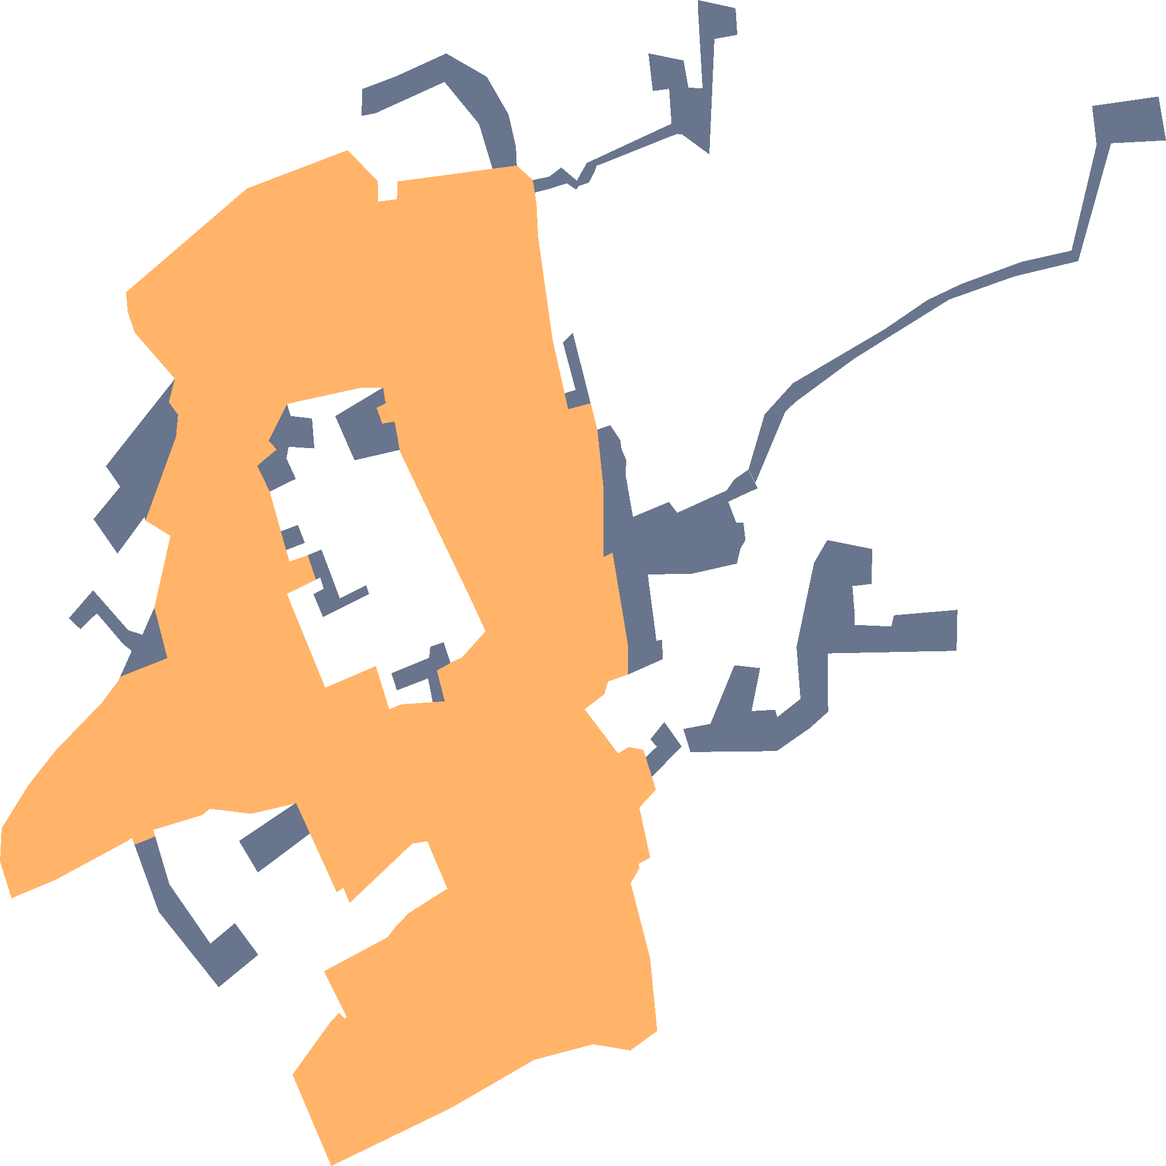
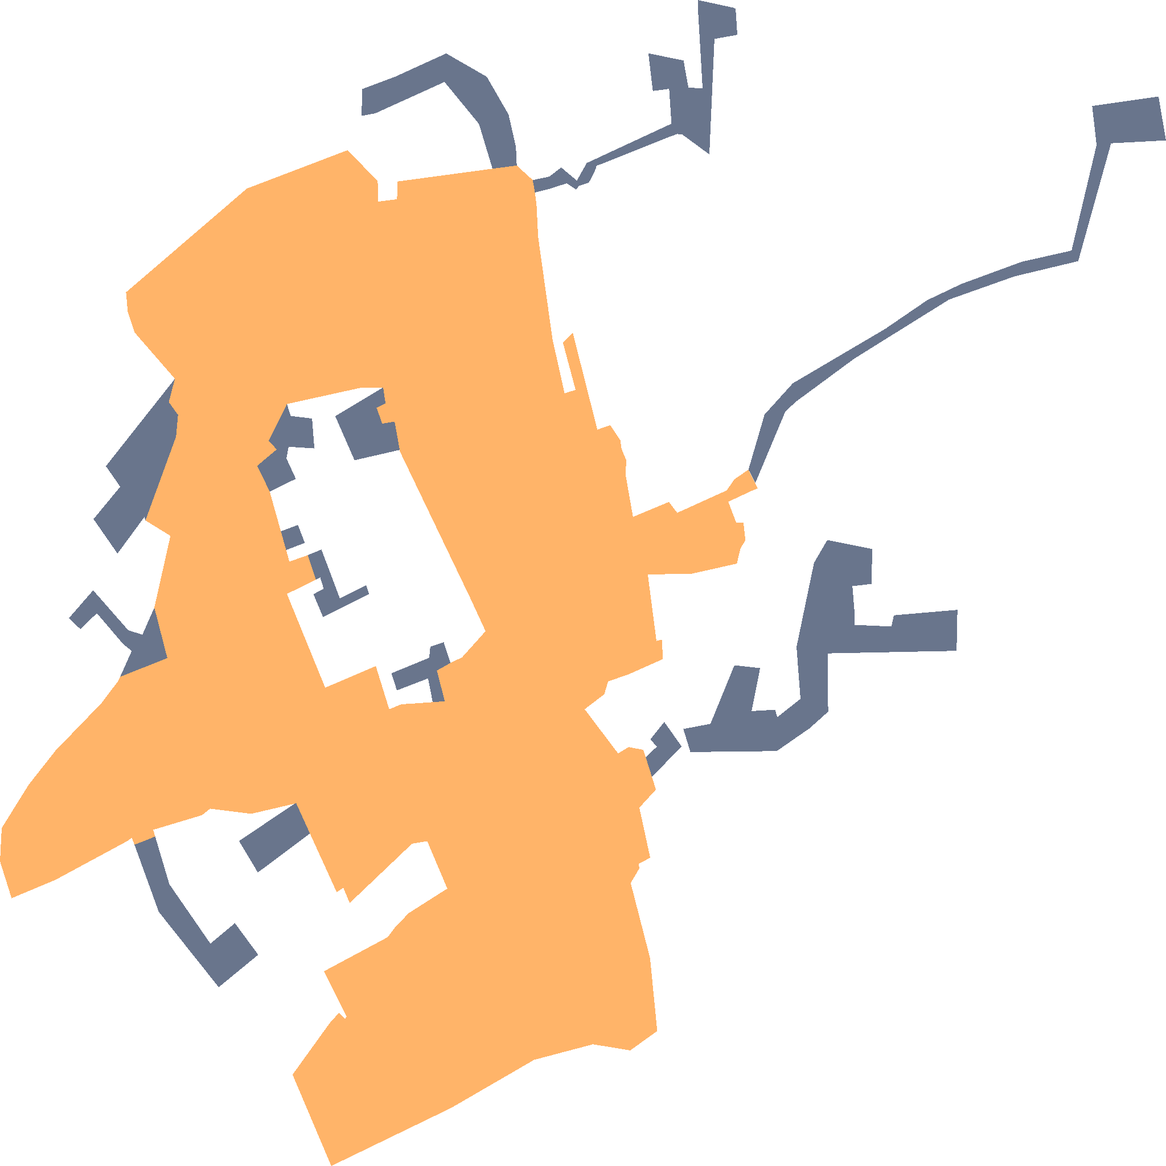
Karte sp_274

Changed region(s): [[0.5, 0.3438, 0.6562, 0.5938], [0.4688, 0.2812, 0.5, 0.3438]]

diff --git a/sp_274.html b/sp_274.html
@@ -141,7 +141,7 @@
         L.control.zoom({
             position: 'topleft'
         }).addTo(map);
-        const geoJsonData = {"type": "FeatureCollection", "features": [{"type": "Feature", "geometry": {"type": "MultiPolygon", "coordinates": [[[[9.317827734, 49.126337592], [9.317357299, 49.127087081], [9.317508766, 49.127119823], [9.317640221, 49.127149886], [9.317758483, 49.127178162], [9.318033216, 49.126645069], [9.318826487, 49.125983083], [9.319299537, 49.126211683], [9.319750755, 49.125859258], [9.318986595, 49.125497304], [9.317827734, 49.126337592]]]]}, "properties": {"dgn_phase": 2}}, {"type": "Feature", "geometry": {"type": "MultiPolygon", "coordinates": [[[[9.329229399, 49.131269641], [9.329540521, 49.131883936], [9.330086349, 49.132232153], [9.331873936, 49.132839293], [9.332684491, 49.133158932], [9.333342213, 49.133339285], [9.334513013, 49.133587494], [9.3354764, 49.133712491], [9.335959458, 49.134889231], [9.335874854, 49.13532492], [9.337157551, 49.135430271], [9.337302194, 49.134941014], [9.33624056, 49.134908873], [9.335604669, 49.133594637], [9.334373828, 49.133424998], [9.333107506, 49.133166075], [9.331278984, 49.132508938], [9.330132744, 49.132021437], [9.329938975, 49.131912507], [9.329363127, 49.131121423], [9.329229399, 49.131269641]]]]}, "properties": {"dgn_phase": 2}}, {"type": "Feature", "geometry": {"type": "MultiPolygon", "coordinates": [[[[9.327969901, 49.128377083], [9.328493896, 49.12843423], [9.328957849, 49.129087849], [9.329454554, 49.129055704], [9.329290804, 49.128577099], [9.329743841, 49.128591385], [9.329787508, 49.128509236], [9.330235087, 49.128712823], [9.330158671, 49.129291433], [9.330497085, 49.130230768], [9.330753624, 49.130484349], [9.331621491, 49.130384346], [9.331610574, 49.129995043], [9.33123941, 49.129970042], [9.331283076, 49.12965574], [9.331283076, 49.129537876], [9.331992653, 49.129520018], [9.332041777, 49.129645026], [9.33326989, 49.129705742], [9.333253516, 49.129248573], [9.330759082, 49.12922], [9.330769998, 49.128569955], [9.330409752, 49.128384226], [9.329776592, 49.128130634], [9.328106358, 49.128119919], [9.327969901, 49.128377083]]]]}, "properties": {"dgn_phase": 2}}, {"type": "Feature", "geometry": {"type": "MultiPolygon", "coordinates": [[[[9.324280104, 49.134625404], [9.324749515, 49.134661116], [9.325058591, 49.134498624], [9.325100551, 49.134360683], [9.325131936, 49.134222296], [9.325162981, 49.133863826], [9.325439988, 49.132725009], [9.325674366, 49.132120151], [9.32574315, 49.131942637], [9.326178188, 49.132009941], [9.326288673, 49.131758789], [9.326307855, 49.131715184], [9.326428539, 49.131056059], [9.326426021, 49.130672527], [9.326428629, 49.130295651], [9.326601751, 49.130345187], [9.326790599, 49.129694304], [9.326899884, 49.129310454], [9.326901812, 49.128984463], [9.326516634, 49.128907926], [9.326441923, 49.128764613], [9.326062233, 49.128597189], [9.326709038, 49.128104292], [9.326912358, 49.128175293], [9.327197475, 49.128144003], [9.327243053, 49.128061047], [9.327361938, 49.12784466], [9.327440621, 49.12770145], [9.327119774, 49.127499773], [9.327329918, 49.126940786], [9.327107492, 49.126874707], [9.327119888, 49.126823065], [9.3269525, 49.126658761], [9.327327303, 49.125820562], [9.327465578, 49.125008543], [9.326943745, 49.124792737], [9.326223251, 49.124860605], [9.325085201, 49.124687364], [9.323483195, 49.124151564], [9.321163426, 49.123503239], [9.320414277, 49.12452216], [9.321132723, 49.125096801], [9.321312846, 49.125211995], [9.321431565, 49.125142343], [9.321458173, 49.125171811], [9.321020146, 49.125674114], [9.322252353, 49.126054521], [9.322400264, 49.126167051], [9.32265926, 49.126322964], [9.32340678, 49.126596997], [9.323017876, 49.127126074], [9.322725176, 49.127097946], [9.321519579, 49.126436264], [9.321395517, 49.126606969], [9.321267793, 49.12655682], [9.320750884, 49.12721155], [9.320714255, 49.127257945], [9.320554071, 49.127460839], [9.320485009, 49.127548315], [9.32045503, 49.12754428], [9.319612479, 49.127430867], [9.318819209, 49.127488016], [9.318666377, 49.127416579], [9.317785774, 49.127264183], [9.317720275, 49.127254658], [9.317758483, 49.127178162], [9.317640221, 49.127149886], [9.317508766, 49.127119823], [9.317357299, 49.127087081], [9.317304424, 49.12716447], [9.317223571, 49.127128455], [9.315830686, 49.126694777], [9.314981923, 49.126489395], [9.314758134, 49.126901942], [9.314790829, 49.127272417], [9.315317534, 49.127758998], [9.315831594, 49.128135357], [9.316716683, 49.128663601], [9.317042632, 49.128911551], [9.317080734, 49.128958782], [9.317993187, 49.129167925], [9.317742295, 49.129731115], [9.31805351, 49.130530757], [9.317782308, 49.130627423], [9.317570324, 49.130702981], [9.318162641, 49.131638603], [9.318200041, 49.131880488], [9.318021685, 49.13202214], [9.318139539, 49.132282599], [9.317359005, 49.132800454], [9.3173172, 49.132873396], [9.317228006, 49.133029023], [9.317195257, 49.133246876], [9.319531401, 49.134403985], [9.321480007, 49.134832537], [9.322060631, 49.134486124], [9.322070865, 49.134258455], [9.322435205, 49.13428524], [9.322440663, 49.134482553], [9.324280104, 49.134625404]], [[9.320305331, 49.132001208], [9.319952009, 49.131591967], [9.320108938, 49.131494813], [9.319731669, 49.131312426], [9.319972502, 49.131024938], [9.320188839, 49.130581465], [9.320290459, 49.13037315], [9.320353724, 49.130243461], [9.320709949, 49.130315846], [9.32086573, 49.130041933], [9.320305664, 49.129883401], [9.321045997, 49.12883745], [9.322024064, 49.129078851], [9.322283738, 49.128597189], [9.322521173, 49.128653444], [9.322697791, 49.128658585], [9.323124161, 49.128676263], [9.323338308, 49.128685142], [9.323359374, 49.128684288], [9.323204591, 49.1290282], [9.323467483, 49.12911386], [9.323691974, 49.129175801], [9.324146376, 49.129467783], [9.323843442, 49.129845482], [9.322492517, 49.131468752], [9.322486049, 49.131489554], [9.322387859, 49.131805309], [9.322148838, 49.131782631], [9.322038172, 49.1319597], [9.322211296, 49.132009245], [9.322166699, 49.13218613], [9.321744842, 49.132183972], [9.320305331, 49.132001208]]]]}, "properties": {"dgn_phase": 1}}, {"type": "Feature", "geometry": {"type": "MultiPolygon", "coordinates": [[[[9.324280104, 49.134625404], [9.324018107, 49.135125379], [9.323352196, 49.135593208], [9.322014918, 49.135243229], [9.321747463, 49.135214659], [9.321763837, 49.135514641], [9.322407914, 49.135653917], [9.323384946, 49.135911043], [9.324170939, 49.135650346], [9.324591226, 49.135228944], [9.324733141, 49.13486825], [9.324749515, 49.134661116], [9.324280104, 49.134625404]]]]}, "properties": {"dgn_phase": 2}}, {"type": "Feature", "geometry": {"type": "MultiPolygon", "coordinates": [[[[9.325886876, 49.132159015], [9.325641293, 49.132686657], [9.325832985, 49.132794651], [9.326178188, 49.132009941], [9.32574315, 49.131942637], [9.325674366, 49.132120151], [9.325886876, 49.132159015]]]]}, "properties": {"dgn_phase": 2}}, {"type": "Feature", "geometry": {"type": "MultiPolygon", "coordinates": [[[[9.320517722, 49.130652393], [9.320654899, 49.13044857], [9.320632024, 49.130447799], [9.320290459, 49.13037315], [9.320188839, 49.130581465], [9.320517722, 49.130652393]]]]}, "properties": {"dgn_phase": 2}}, {"type": "Feature", "geometry": {"type": "MultiPolygon", "coordinates": [[[[9.317236194, 49.129478944], [9.317137945, 49.129325363], [9.316630324, 49.12966824], [9.316313744, 49.129489659], [9.316089955, 49.129612881], [9.316559367, 49.129923611], [9.317236194, 49.129478944]]]]}, "properties": {"dgn_phase": 2}}, {"type": "Feature", "geometry": {"type": "MultiPolygon", "coordinates": [[[[9.32097336, 49.130378481], [9.32132814, 49.129833869], [9.321837313, 49.129980863], [9.321895121, 49.129882317], [9.321004069, 49.129624658], [9.320817677, 49.129880312], [9.321016279, 49.12994146], [9.320948489, 49.130068383], [9.32086573, 49.130041933], [9.320709949, 49.130315846], [9.32097336, 49.130378481]]]]}, "properties": {"dgn_phase": 2}}, {"type": "Feature", "geometry": {"type": "MultiPolygon", "coordinates": [[[[9.323338308, 49.128685142], [9.323124161, 49.128676263], [9.323035045, 49.128941129], [9.322431948, 49.128807742], [9.322326458, 49.128998138], [9.323056869, 49.12917119], [9.323077998, 49.129294532], [9.323337508, 49.129343831], [9.323467483, 49.12911386], [9.323204591, 49.1290282], [9.323359374, 49.128684288], [9.323338308, 49.128685142]]]]}, "properties": {"dgn_phase": 2}}, {"type": "Feature", "geometry": {"type": "MultiPolygon", "coordinates": [[[[9.319743159, 49.126776622], [9.319379519, 49.127127817], [9.32045503, 49.12754428], [9.320485009, 49.127548315], [9.320554071, 49.127460839], [9.320714255, 49.127257945], [9.320750884, 49.12721155], [9.319743159, 49.126776622]]]]}, "properties": {"dgn_phase": 2}}, {"type": "Feature", "geometry": {"type": "MultiPolygon", "coordinates": [[[[9.317510866, 49.129428047], [9.317742295, 49.129731115], [9.317993187, 49.129167925], [9.317080734, 49.128958782], [9.317304849, 49.129247121], [9.317137945, 49.129325363], [9.317236194, 49.129478944], [9.317510866, 49.129428047]]]]}, "properties": {"dgn_phase": 2}}, {"type": "Feature", "geometry": {"type": "MultiPolygon", "coordinates": [[[[9.320380707, 49.131867593], [9.320792202, 49.13183977], [9.320835792, 49.131506136], [9.320337835, 49.131524194], [9.320296339, 49.13139424], [9.320377011, 49.131293962], [9.320477838, 49.131166947], [9.319972502, 49.131024938], [9.319731669, 49.131312426], [9.320108938, 49.131494813], [9.319952009, 49.131591967], [9.320305331, 49.132001208], [9.320380707, 49.131867593]]]]}, "properties": {"dgn_phase": 2}}, {"type": "Feature", "geometry": {"type": "MultiPolygon", "coordinates": [[[[9.327942201, 49.1350103], [9.327896016, 49.135011148], [9.3278496, 49.135012], [9.3276928, 49.1349799], [9.327194764, 49.134864739], [9.3263833, 49.1346771], [9.3262914, 49.1346599], [9.326277493, 49.134625404], [9.326172421, 49.134496838], [9.326133532, 49.134468268], [9.32595136, 49.134434341], [9.325898501, 49.1343928], [9.325715972, 49.134462465], [9.325366643, 49.134398181], [9.325100551, 49.134360683], [9.325058591, 49.134498624], [9.325378924, 49.134537462], [9.325609536, 49.134639242], [9.3259119, 49.1344922], [9.326101122, 49.134688347], [9.327740653, 49.13512761], [9.327695622, 49.13551598], [9.327380407, 49.135491875], [9.327294438, 49.135912382], [9.327973994, 49.13583203], [9.32806815, 49.135529372], [9.328342429, 49.135521337], [9.328248273, 49.136453411], [9.328248273, 49.136506979], [9.328936016, 49.136421271], [9.328981048, 49.136410558], [9.329013796, 49.136118616], [9.328571677, 49.136073084], [9.328473427, 49.134784772], [9.327942201, 49.1350103]]]]}, "properties": {"dgn_phase": 2}}, {"type": "Feature", "geometry": {"type": "MultiPolygon", "coordinates": [[[[9.317082451, 49.131078929], [9.316805245, 49.131307882], [9.318139539, 49.132282599], [9.318021685, 49.13202214], [9.318200041, 49.131880488], [9.318162641, 49.131638603], [9.317570324, 49.130702981], [9.317549982, 49.130741233], [9.317030093, 49.130333465], [9.316566472, 49.130717886], [9.317082451, 49.131078929]]]]}, "properties": {"dgn_phase": 2}}, {"type": "Feature", "geometry": {"type": "MultiPolygon", "coordinates": [[[[9.329225738, 49.131268179], [9.32940682, 49.131060942], [9.329281252, 49.131030349], [9.328839132, 49.13091115], [9.328994692, 49.130675428], [9.329131832, 49.130679446], [9.329170722, 49.130481224], [9.329076567, 49.130394168], [9.329004927, 49.130221392], [9.328135014, 49.130108887], [9.327283181, 49.130100108], [9.327450569, 49.129359592], [9.32751516, 49.129367945], [9.327561798, 49.129373975], [9.327569705, 49.129155141], [9.326901812, 49.128984463], [9.326899884, 49.129310454], [9.326790599, 49.129694304], [9.326601751, 49.130345187], [9.326428629, 49.130295651], [9.326426021, 49.130672527], [9.326428539, 49.131056059], [9.326307855, 49.131715184], [9.326547527, 49.131764031], [9.326558602, 49.131765177], [9.326751339, 49.131596879], [9.326774652, 49.131504318], [9.326869261, 49.131368602], [9.326851068, 49.131220979], [9.326996622, 49.130742395], [9.327691642, 49.130909066], [9.327851752, 49.130787634], [9.328808771, 49.131037642], [9.328956485, 49.13116071], [9.329225738, 49.131268179]]]]}, "properties": {"dgn_phase": 2}}, {"type": "Feature", "geometry": {"type": "MultiPolygon", "coordinates": [[[[9.321612541, 49.131373905], [9.32123962, 49.131865206], [9.322166699, 49.13218613], [9.322211296, 49.132009245], [9.322038172, 49.1319597], [9.322148838, 49.131782631], [9.322387859, 49.131805309], [9.322486049, 49.131489554], [9.321612541, 49.131373905]]]]}, "properties": {"dgn_phase": 2}}, {"type": "Feature", "geometry": {"type": "MultiPolygon", "coordinates": [[[[9.327456553, 49.128179103], [9.327335135, 49.128262825], [9.327600671, 49.128455509], [9.32793936, 49.128181067], [9.327361938, 49.12784466], [9.327243053, 49.128061047], [9.327456553, 49.128179103]]]]}, "properties": {"dgn_phase": 2}}]};
+        const geoJsonData = {"type": "FeatureCollection", "features": [{"type": "Feature", "geometry": {"type": "MultiPolygon", "coordinates": [[[[9.317827734, 49.126337592], [9.317357299, 49.127087081], [9.317508766, 49.127119823], [9.317640221, 49.127149886], [9.317758483, 49.127178162], [9.318033216, 49.126645069], [9.318826487, 49.125983083], [9.319299537, 49.126211683], [9.319750755, 49.125859258], [9.318986595, 49.125497304], [9.317827734, 49.126337592]]]]}, "properties": {"dgn_phase": 2}}, {"type": "Feature", "geometry": {"type": "MultiPolygon", "coordinates": [[[[9.329229399, 49.131269641], [9.329540521, 49.131883936], [9.330086349, 49.132232153], [9.331873936, 49.132839293], [9.332684491, 49.133158932], [9.333342213, 49.133339285], [9.334513013, 49.133587494], [9.3354764, 49.133712491], [9.335959458, 49.134889231], [9.335874854, 49.13532492], [9.337157551, 49.135430271], [9.337302194, 49.134941014], [9.33624056, 49.134908873], [9.335604669, 49.133594637], [9.334373828, 49.133424998], [9.333107506, 49.133166075], [9.331278984, 49.132508938], [9.330132744, 49.132021437], [9.329938975, 49.131912507], [9.329363127, 49.131121423], [9.329229399, 49.131269641]]]]}, "properties": {"dgn_phase": 2}}, {"type": "Feature", "geometry": {"type": "MultiPolygon", "coordinates": [[[[9.327969901, 49.128377083], [9.328493896, 49.12843423], [9.328957849, 49.129087849], [9.329454554, 49.129055704], [9.329290804, 49.128577099], [9.329743841, 49.128591385], [9.329787508, 49.128509236], [9.330235087, 49.128712823], [9.330158671, 49.129291433], [9.330497085, 49.130230768], [9.330753624, 49.130484349], [9.331621491, 49.130384346], [9.331610574, 49.129995043], [9.33123941, 49.129970042], [9.331283076, 49.12965574], [9.331283076, 49.129537876], [9.331992653, 49.129520018], [9.332041777, 49.129645026], [9.33326989, 49.129705742], [9.333253516, 49.129248573], [9.330759082, 49.12922], [9.330769998, 49.128569955], [9.330409752, 49.128384226], [9.329776592, 49.128130634], [9.328106358, 49.128119919], [9.327969901, 49.128377083]]]]}, "properties": {"dgn_phase": 2}}, {"type": "Feature", "geometry": {"type": "MultiPolygon", "coordinates": [[[[9.324280104, 49.134625404], [9.324749515, 49.134661116], [9.325058591, 49.134498624], [9.325100551, 49.134360683], [9.325131936, 49.134222296], [9.325162981, 49.133863826], [9.325439988, 49.132725009], [9.325674366, 49.132120151], [9.32574315, 49.131942637], [9.326178188, 49.132009941], [9.326288673, 49.131758789], [9.326307855, 49.131715184], [9.326428539, 49.131056059], [9.326426021, 49.130672527], [9.326428629, 49.130295651], [9.326601751, 49.130345187], [9.326790599, 49.129694304], [9.326899884, 49.129310454], [9.326901812, 49.128984463], [9.326516634, 49.128907926], [9.326441923, 49.128764613], [9.326062233, 49.128597189], [9.326709038, 49.128104292], [9.326912358, 49.128175293], [9.327197475, 49.128144003], [9.327243053, 49.128061047], [9.327361938, 49.12784466], [9.327440621, 49.12770145], [9.327119774, 49.127499773], [9.327329918, 49.126940786], [9.327107492, 49.126874707], [9.327119888, 49.126823065], [9.3269525, 49.126658761], [9.327327303, 49.125820562], [9.327465578, 49.125008543], [9.326943745, 49.124792737], [9.326223251, 49.124860605], [9.325085201, 49.124687364], [9.323483195, 49.124151564], [9.321163426, 49.123503239], [9.320414277, 49.12452216], [9.321132723, 49.125096801], [9.321312846, 49.125211995], [9.321431565, 49.125142343], [9.321458173, 49.125171811], [9.321020146, 49.125674114], [9.322252353, 49.126054521], [9.322400264, 49.126167051], [9.32265926, 49.126322964], [9.32340678, 49.126596997], [9.323017876, 49.127126074], [9.322725176, 49.127097946], [9.321519579, 49.126436264], [9.321395517, 49.126606969], [9.321267793, 49.12655682], [9.320750884, 49.12721155], [9.320714255, 49.127257945], [9.320554071, 49.127460839], [9.320485009, 49.127548315], [9.32045503, 49.12754428], [9.319612479, 49.127430867], [9.318819209, 49.127488016], [9.318666377, 49.127416579], [9.317785774, 49.127264183], [9.317720275, 49.127254658], [9.317758483, 49.127178162], [9.317640221, 49.127149886], [9.317508766, 49.127119823], [9.317357299, 49.127087081], [9.317304424, 49.12716447], [9.317223571, 49.127128455], [9.315830686, 49.126694777], [9.314981923, 49.126489395], [9.314758134, 49.126901942], [9.314790829, 49.127272417], [9.315317534, 49.127758998], [9.315831594, 49.128135357], [9.316716683, 49.128663601], [9.317042632, 49.128911551], [9.317080734, 49.128958782], [9.317993187, 49.129167925], [9.317742295, 49.129731115], [9.31805351, 49.130530757], [9.317782308, 49.130627423], [9.317570324, 49.130702981], [9.318162641, 49.131638603], [9.318200041, 49.131880488], [9.318021685, 49.13202214], [9.318139539, 49.132282599], [9.317359005, 49.132800454], [9.3173172, 49.132873396], [9.317228006, 49.133029023], [9.317195257, 49.133246876], [9.319531401, 49.134403985], [9.321480007, 49.134832537], [9.322060631, 49.134486124], [9.322070865, 49.134258455], [9.322435205, 49.13428524], [9.322440663, 49.134482553], [9.324280104, 49.134625404]], [[9.320305331, 49.132001208], [9.319952009, 49.131591967], [9.320108938, 49.131494813], [9.319731669, 49.131312426], [9.319972502, 49.131024938], [9.320188839, 49.130581465], [9.320290459, 49.13037315], [9.320353724, 49.130243461], [9.320709949, 49.130315846], [9.32086573, 49.130041933], [9.320305664, 49.129883401], [9.321045997, 49.12883745], [9.322024064, 49.129078851], [9.322283738, 49.128597189], [9.322521173, 49.128653444], [9.322697791, 49.128658585], [9.323124161, 49.128676263], [9.323338308, 49.128685142], [9.323359374, 49.128684288], [9.323204591, 49.1290282], [9.323467483, 49.12911386], [9.323691974, 49.129175801], [9.324146376, 49.129467783], [9.323843442, 49.129845482], [9.322492517, 49.131468752], [9.322486049, 49.131489554], [9.322387859, 49.131805309], [9.322148838, 49.131782631], [9.322038172, 49.1319597], [9.322211296, 49.132009245], [9.322166699, 49.13218613], [9.321744842, 49.132183972], [9.320305331, 49.132001208]]]]}, "properties": {"dgn_phase": 1}}, {"type": "Feature", "geometry": {"type": "MultiPolygon", "coordinates": [[[[9.324280104, 49.134625404], [9.324018107, 49.135125379], [9.323352196, 49.135593208], [9.322014918, 49.135243229], [9.321747463, 49.135214659], [9.321763837, 49.135514641], [9.322407914, 49.135653917], [9.323384946, 49.135911043], [9.324170939, 49.135650346], [9.324591226, 49.135228944], [9.324733141, 49.13486825], [9.324749515, 49.134661116], [9.324280104, 49.134625404]]]]}, "properties": {"dgn_phase": 2}}, {"type": "Feature", "geometry": {"type": "MultiPolygon", "coordinates": [[[[9.325886876, 49.132159015], [9.325641293, 49.132686657], [9.325832985, 49.132794651], [9.326178188, 49.132009941], [9.32574315, 49.131942637], [9.325674366, 49.132120151], [9.325886876, 49.132159015]]]]}, "properties": {"dgn_phase": 1}}, {"type": "Feature", "geometry": {"type": "MultiPolygon", "coordinates": [[[[9.320517722, 49.130652393], [9.320654899, 49.13044857], [9.320632024, 49.130447799], [9.320290459, 49.13037315], [9.320188839, 49.130581465], [9.320517722, 49.130652393]]]]}, "properties": {"dgn_phase": 2}}, {"type": "Feature", "geometry": {"type": "MultiPolygon", "coordinates": [[[[9.317236194, 49.129478944], [9.317137945, 49.129325363], [9.316630324, 49.12966824], [9.316313744, 49.129489659], [9.316089955, 49.129612881], [9.316559367, 49.129923611], [9.317236194, 49.129478944]]]]}, "properties": {"dgn_phase": 2}}, {"type": "Feature", "geometry": {"type": "MultiPolygon", "coordinates": [[[[9.32097336, 49.130378481], [9.32132814, 49.129833869], [9.321837313, 49.129980863], [9.321895121, 49.129882317], [9.321004069, 49.129624658], [9.320817677, 49.129880312], [9.321016279, 49.12994146], [9.320948489, 49.130068383], [9.32086573, 49.130041933], [9.320709949, 49.130315846], [9.32097336, 49.130378481]]]]}, "properties": {"dgn_phase": 2}}, {"type": "Feature", "geometry": {"type": "MultiPolygon", "coordinates": [[[[9.323338308, 49.128685142], [9.323124161, 49.128676263], [9.323035045, 49.128941129], [9.322431948, 49.128807742], [9.322326458, 49.128998138], [9.323056869, 49.12917119], [9.323077998, 49.129294532], [9.323337508, 49.129343831], [9.323467483, 49.12911386], [9.323204591, 49.1290282], [9.323359374, 49.128684288], [9.323338308, 49.128685142]]]]}, "properties": {"dgn_phase": 2}}, {"type": "Feature", "geometry": {"type": "MultiPolygon", "coordinates": [[[[9.319743159, 49.126776622], [9.319379519, 49.127127817], [9.32045503, 49.12754428], [9.320485009, 49.127548315], [9.320554071, 49.127460839], [9.320714255, 49.127257945], [9.320750884, 49.12721155], [9.319743159, 49.126776622]]]]}, "properties": {"dgn_phase": 2}}, {"type": "Feature", "geometry": {"type": "MultiPolygon", "coordinates": [[[[9.317510866, 49.129428047], [9.317742295, 49.129731115], [9.317993187, 49.129167925], [9.317080734, 49.128958782], [9.317304849, 49.129247121], [9.317137945, 49.129325363], [9.317236194, 49.129478944], [9.317510866, 49.129428047]]]]}, "properties": {"dgn_phase": 2}}, {"type": "Feature", "geometry": {"type": "MultiPolygon", "coordinates": [[[[9.320380707, 49.131867593], [9.320792202, 49.13183977], [9.320835792, 49.131506136], [9.320337835, 49.131524194], [9.320296339, 49.13139424], [9.320377011, 49.131293962], [9.320477838, 49.131166947], [9.319972502, 49.131024938], [9.319731669, 49.131312426], [9.320108938, 49.131494813], [9.319952009, 49.131591967], [9.320305331, 49.132001208], [9.320380707, 49.131867593]]]]}, "properties": {"dgn_phase": 2}}, {"type": "Feature", "geometry": {"type": "MultiPolygon", "coordinates": [[[[9.327942201, 49.1350103], [9.327896016, 49.135011148], [9.3278496, 49.135012], [9.3276928, 49.1349799], [9.327194764, 49.134864739], [9.3263833, 49.1346771], [9.3262914, 49.1346599], [9.326277493, 49.134625404], [9.326172421, 49.134496838], [9.326133532, 49.134468268], [9.32595136, 49.134434341], [9.325898501, 49.1343928], [9.325715972, 49.134462465], [9.325366643, 49.134398181], [9.325100551, 49.134360683], [9.325058591, 49.134498624], [9.325378924, 49.134537462], [9.325609536, 49.134639242], [9.3259119, 49.1344922], [9.326101122, 49.134688347], [9.327740653, 49.13512761], [9.327695622, 49.13551598], [9.327380407, 49.135491875], [9.327294438, 49.135912382], [9.327973994, 49.13583203], [9.32806815, 49.135529372], [9.328342429, 49.135521337], [9.328248273, 49.136453411], [9.328248273, 49.136506979], [9.328936016, 49.136421271], [9.328981048, 49.136410558], [9.329013796, 49.136118616], [9.328571677, 49.136073084], [9.328473427, 49.134784772], [9.327942201, 49.1350103]]]]}, "properties": {"dgn_phase": 2}}, {"type": "Feature", "geometry": {"type": "MultiPolygon", "coordinates": [[[[9.329225738, 49.131268179], [9.32940682, 49.131060942], [9.329281252, 49.131030349], [9.328839132, 49.13091115], [9.328994692, 49.130675428], [9.329131832, 49.130679446], [9.329170722, 49.130481224], [9.329076567, 49.130394168], [9.329004927, 49.130221392], [9.328135014, 49.130108887], [9.327283181, 49.130100108], [9.327450569, 49.129359592], [9.32751516, 49.129367945], [9.327561798, 49.129373975], [9.327569705, 49.129155141], [9.326901812, 49.128984463], [9.326899884, 49.129310454], [9.326790599, 49.129694304], [9.326601751, 49.130345187], [9.326428629, 49.130295651], [9.326426021, 49.130672527], [9.326428539, 49.131056059], [9.326307855, 49.131715184], [9.326547527, 49.131764031], [9.326558602, 49.131765177], [9.326751339, 49.131596879], [9.326774652, 49.131504318], [9.326869261, 49.131368602], [9.326851068, 49.131220979], [9.326996622, 49.130742395], [9.327691642, 49.130909066], [9.327851752, 49.130787634], [9.328808771, 49.131037642], [9.328956485, 49.13116071], [9.329225738, 49.131268179]]]]}, "properties": {"dgn_phase": 1}}, {"type": "Feature", "geometry": {"type": "MultiPolygon", "coordinates": [[[[9.317082451, 49.131078929], [9.316805245, 49.131307882], [9.318139539, 49.132282599], [9.318021685, 49.13202214], [9.318200041, 49.131880488], [9.318162641, 49.131638603], [9.317570324, 49.130702981], [9.317549982, 49.130741233], [9.317030093, 49.130333465], [9.316566472, 49.130717886], [9.317082451, 49.131078929]]]]}, "properties": {"dgn_phase": 2}}, {"type": "Feature", "geometry": {"type": "MultiPolygon", "coordinates": [[[[9.321612541, 49.131373905], [9.32123962, 49.131865206], [9.322166699, 49.13218613], [9.322211296, 49.132009245], [9.322038172, 49.1319597], [9.322148838, 49.131782631], [9.322387859, 49.131805309], [9.322486049, 49.131489554], [9.321612541, 49.131373905]]]]}, "properties": {"dgn_phase": 2}}, {"type": "Feature", "geometry": {"type": "MultiPolygon", "coordinates": [[[[9.327456553, 49.128179103], [9.327335135, 49.128262825], [9.327600671, 49.128455509], [9.32793936, 49.128181067], [9.327361938, 49.12784466], [9.327243053, 49.128061047], [9.327456553, 49.128179103]]]]}, "properties": {"dgn_phase": 2}}]};
          L.imageOverlay("output_tiles/sp_274.png", bounds).addTo(map);
         const zoomFullExtentControl = L.Control.extend({
             options: { position: 'topleft' },
